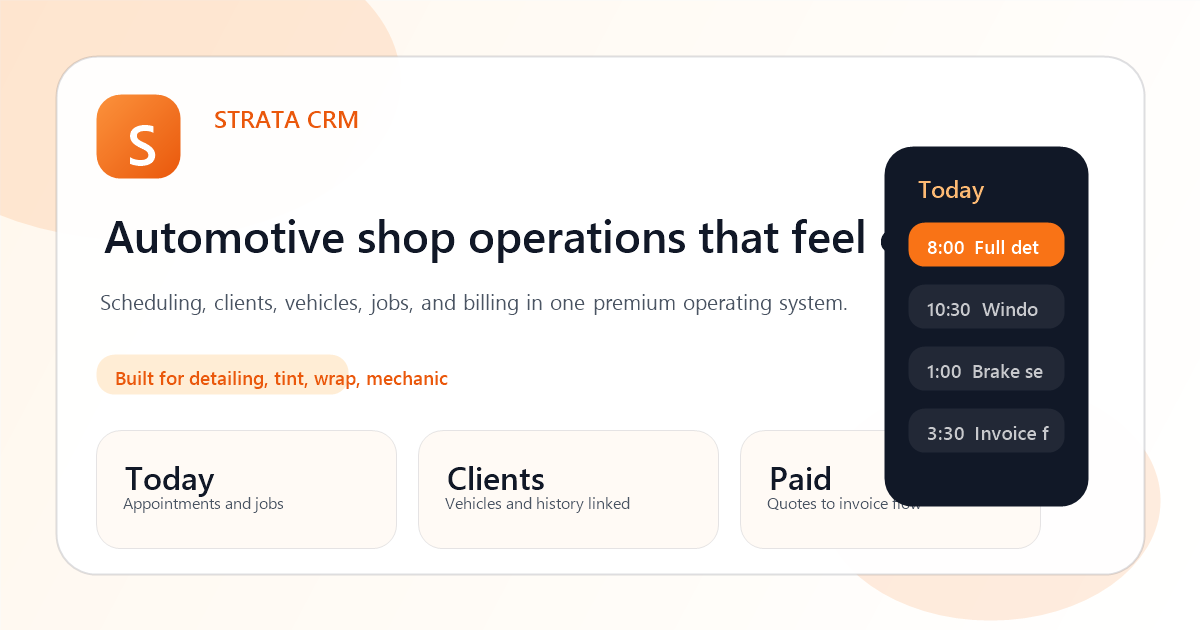
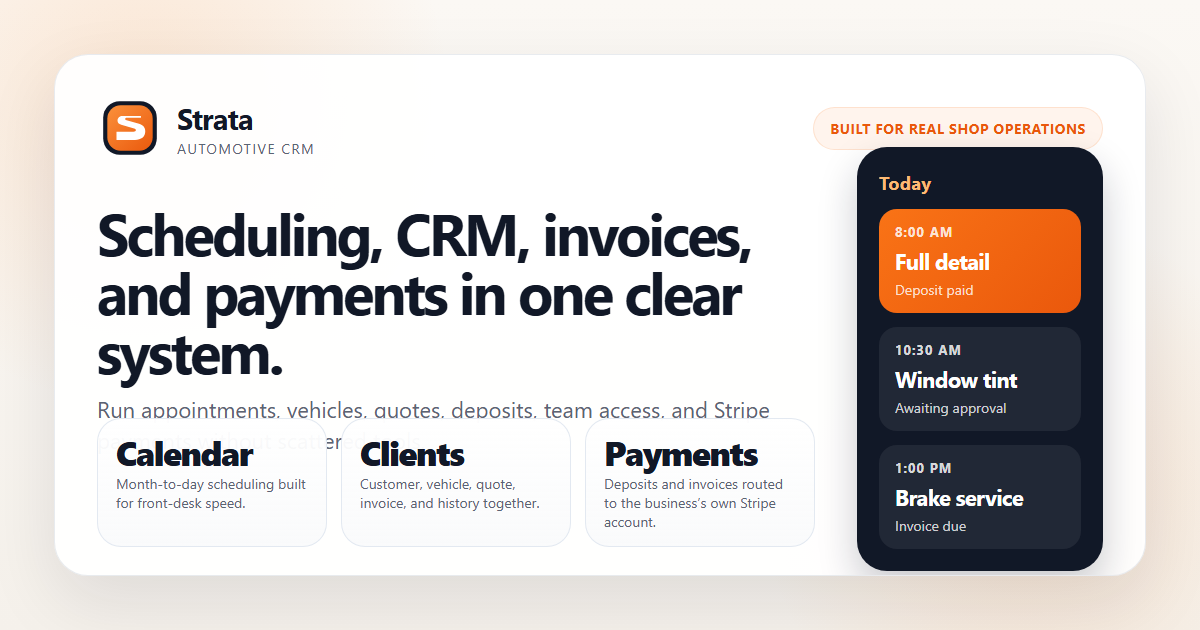
Refresh social preview card

diff --git a/tmp/social-preview-card.html b/tmp/social-preview-card.html
@@ -1,0 +1,263 @@
+<!doctype html>
+<html lang="en">
+  <head>
+    <meta charset="utf-8" />
+    <title>Strata Social Preview</title>
+    <style>
+      :root {
+        --bg: #f7f4ef;
+        --panel: rgba(255, 255, 255, 0.94);
+        --ink: #111827;
+        --muted: #5b6473;
+        --orange: #f97316;
+        --orange-deep: #ea580c;
+        --line: rgba(249, 115, 22, 0.16);
+        --shadow: 0 26px 70px rgba(17, 24, 39, 0.1);
+      }
+
+      * {
+        box-sizing: border-box;
+      }
+
+      html,
+      body {
+        margin: 0;
+        width: 1200px;
+        height: 630px;
+        overflow: hidden;
+        background:
+          radial-gradient(circle at 12% 16%, rgba(251, 146, 60, 0.18), transparent 26%),
+          radial-gradient(circle at 86% 78%, rgba(251, 146, 60, 0.16), transparent 24%),
+          linear-gradient(180deg, #fbf8f4 0%, #f5f1eb 100%);
+        font-family: Inter, "Segoe UI", Arial, sans-serif;
+        color: var(--ink);
+      }
+
+      .frame {
+        position: relative;
+        width: 100%;
+        height: 100%;
+        padding: 54px;
+      }
+
+      .card {
+        position: relative;
+        width: 100%;
+        height: 100%;
+        border-radius: 34px;
+        background: var(--panel);
+        border: 1px solid rgba(148, 163, 184, 0.22);
+        box-shadow: var(--shadow);
+        padding: 40px 42px;
+        overflow: hidden;
+      }
+
+      .topbar {
+        display: flex;
+        align-items: center;
+        justify-content: space-between;
+      }
+
+      .brand {
+        display: flex;
+        align-items: center;
+        gap: 14px;
+      }
+
+      .brand-wording {
+        display: flex;
+        flex-direction: column;
+        gap: 2px;
+      }
+
+      .brand-wording .name {
+        font-size: 29px;
+        font-weight: 700;
+        letter-spacing: -0.03em;
+      }
+
+      .brand-wording .tag {
+        color: var(--muted);
+        font-size: 14px;
+        letter-spacing: 0.1em;
+        text-transform: uppercase;
+      }
+
+      .chip {
+        padding: 11px 16px;
+        border-radius: 999px;
+        background: rgba(249, 115, 22, 0.08);
+        border: 1px solid rgba(249, 115, 22, 0.14);
+        color: var(--orange-deep);
+        font-size: 14px;
+        font-weight: 700;
+        letter-spacing: 0.04em;
+        text-transform: uppercase;
+      }
+
+      h1 {
+        margin: 42px 0 14px;
+        max-width: 700px;
+        font-size: 58px;
+        line-height: 1.02;
+        letter-spacing: -0.05em;
+      }
+
+      .subcopy {
+        max-width: 675px;
+        color: var(--muted);
+        font-size: 22px;
+        line-height: 1.4;
+      }
+
+      .metrics {
+        position: absolute;
+        left: 42px;
+        right: 330px;
+        bottom: 28px;
+        display: grid;
+        grid-template-columns: repeat(3, minmax(0, 1fr));
+        gap: 14px;
+      }
+
+      .metric {
+        background: linear-gradient(180deg, rgba(255,255,255,0.98), rgba(249, 250, 251, 0.9));
+        border: 1px solid rgba(226, 232, 240, 0.95);
+        border-radius: 24px;
+        padding: 16px 18px 14px;
+      }
+
+      .metric .value {
+        font-size: 34px;
+        font-weight: 800;
+        line-height: 1;
+        letter-spacing: -0.04em;
+      }
+
+      .metric .label {
+        margin-top: 6px;
+        color: var(--muted);
+        font-size: 14px;
+        line-height: 1.35;
+      }
+
+      .schedule {
+        position: absolute;
+        top: 92px;
+        right: 42px;
+        width: 246px;
+        border-radius: 30px;
+        background: #111827;
+        color: white;
+        padding: 24px 22px 22px;
+        box-shadow: 0 18px 38px rgba(17, 24, 39, 0.22);
+      }
+
+      .schedule .title {
+        color: #fdba74;
+        font-size: 18px;
+        font-weight: 700;
+        letter-spacing: 0.02em;
+      }
+
+      .slot {
+        margin-top: 14px;
+        border-radius: 18px;
+        padding: 14px 16px;
+        background: rgba(255, 255, 255, 0.07);
+      }
+
+      .slot.active {
+        background: linear-gradient(135deg, var(--orange) 0%, var(--orange-deep) 100%);
+      }
+
+      .slot .time {
+        font-size: 13px;
+        font-weight: 700;
+        letter-spacing: 0.08em;
+        text-transform: uppercase;
+        opacity: 0.82;
+      }
+
+      .slot .service {
+        margin-top: 6px;
+        font-size: 22px;
+        font-weight: 700;
+        letter-spacing: -0.03em;
+        white-space: nowrap;
+      }
+
+      .slot .detail {
+        margin-top: 4px;
+        font-size: 14px;
+        opacity: 0.78;
+      }
+    </style>
+  </head>
+  <body>
+    <div class="frame">
+      <div class="card">
+        <div class="topbar">
+          <div class="brand">
+            <svg width="66" height="66" viewBox="0 0 64 64" aria-hidden="true">
+              <defs>
+                <linearGradient id="mark-fill" x1="10" y1="8" x2="54" y2="56" gradientUnits="userSpaceOnUse">
+                  <stop stop-color="#FB923C"></stop>
+                  <stop offset="1" stop-color="#EA580C"></stop>
+                </linearGradient>
+              </defs>
+              <rect x="6" y="6" width="52" height="52" rx="16" fill="#111827"></rect>
+              <rect x="10" y="10" width="44" height="44" rx="13" fill="url(#mark-fill)"></rect>
+              <path
+                d="M42.6 20.4H24.7c-2.7 0-4.8 1.9-4.8 4.4 0 2.1 1.2 3.4 3.6 4.1l12.5 3.5c1.1.3 1.7.8 1.7 1.6 0 1-.9 1.6-2.3 1.6H18.9v8h17.9c6.2 0 10-3.1 10-8.4 0-3.9-2.2-6.2-6.9-7.5l-11.2-3.1c-.9-.3-1.4-.7-1.4-1.3 0-.8.7-1.3 1.8-1.3h13.5v-7.6Z"
+                fill="white"
+              ></path>
+            </svg>
+            <div class="brand-wording">
+              <div class="name">Strata</div>
+              <div class="tag">Automotive CRM</div>
+            </div>
+          </div>
+          <div class="chip">Built for real shop operations</div>
+        </div>
+
+        <h1>Scheduling, CRM, invoices, and payments in one clear system.</h1>
+        <div class="subcopy">Run appointments, vehicles, quotes, deposits, team access, and Stripe payments without scattered tools.</div>
+
+        <div class="metrics">
+          <div class="metric">
+            <div class="value">Calendar</div>
+            <div class="label">Month-to-day scheduling built for front-desk speed.</div>
+          </div>
+          <div class="metric">
+            <div class="value">Clients</div>
+            <div class="label">Customer, vehicle, quote, invoice, and history together.</div>
+          </div>
+          <div class="metric">
+            <div class="value">Payments</div>
+            <div class="label">Deposits and invoices routed to the business’s own Stripe account.</div>
+          </div>
+        </div>
+
+        <div class="schedule">
+          <div class="title">Today</div>
+          <div class="slot active">
+            <div class="time">8:00 AM</div>
+            <div class="service">Full detail</div>
+            <div class="detail">Deposit paid</div>
+          </div>
+          <div class="slot">
+            <div class="time">10:30 AM</div>
+            <div class="service">Window tint</div>
+            <div class="detail">Awaiting approval</div>
+          </div>
+          <div class="slot">
+            <div class="time">1:00 PM</div>
+            <div class="service">Brake service</div>
+            <div class="detail">Invoice due</div>
+          </div>
+        </div>
+      </div>
+    </div>
+  </body>
+</html>
